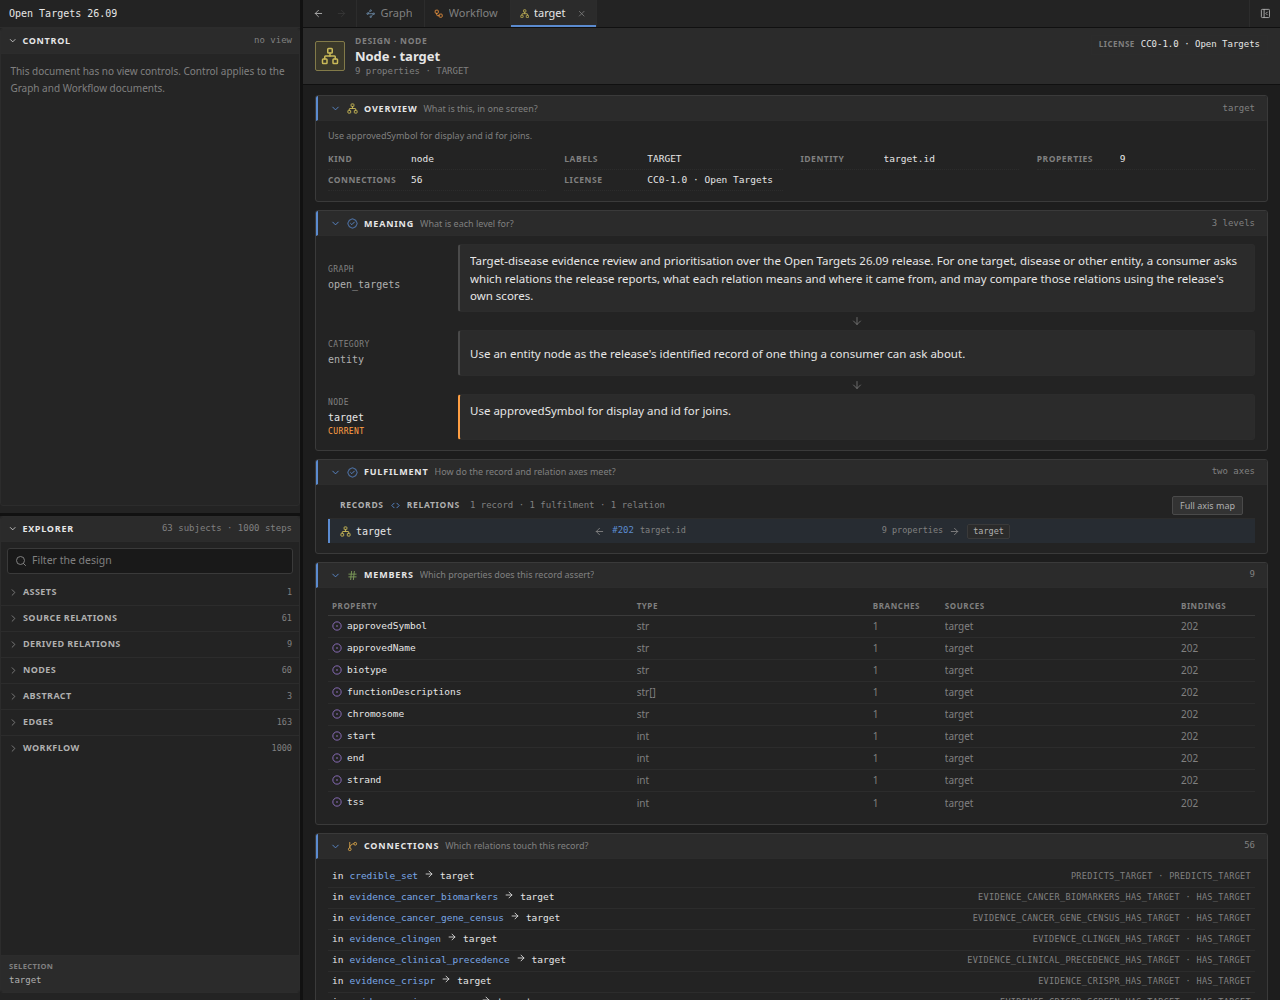
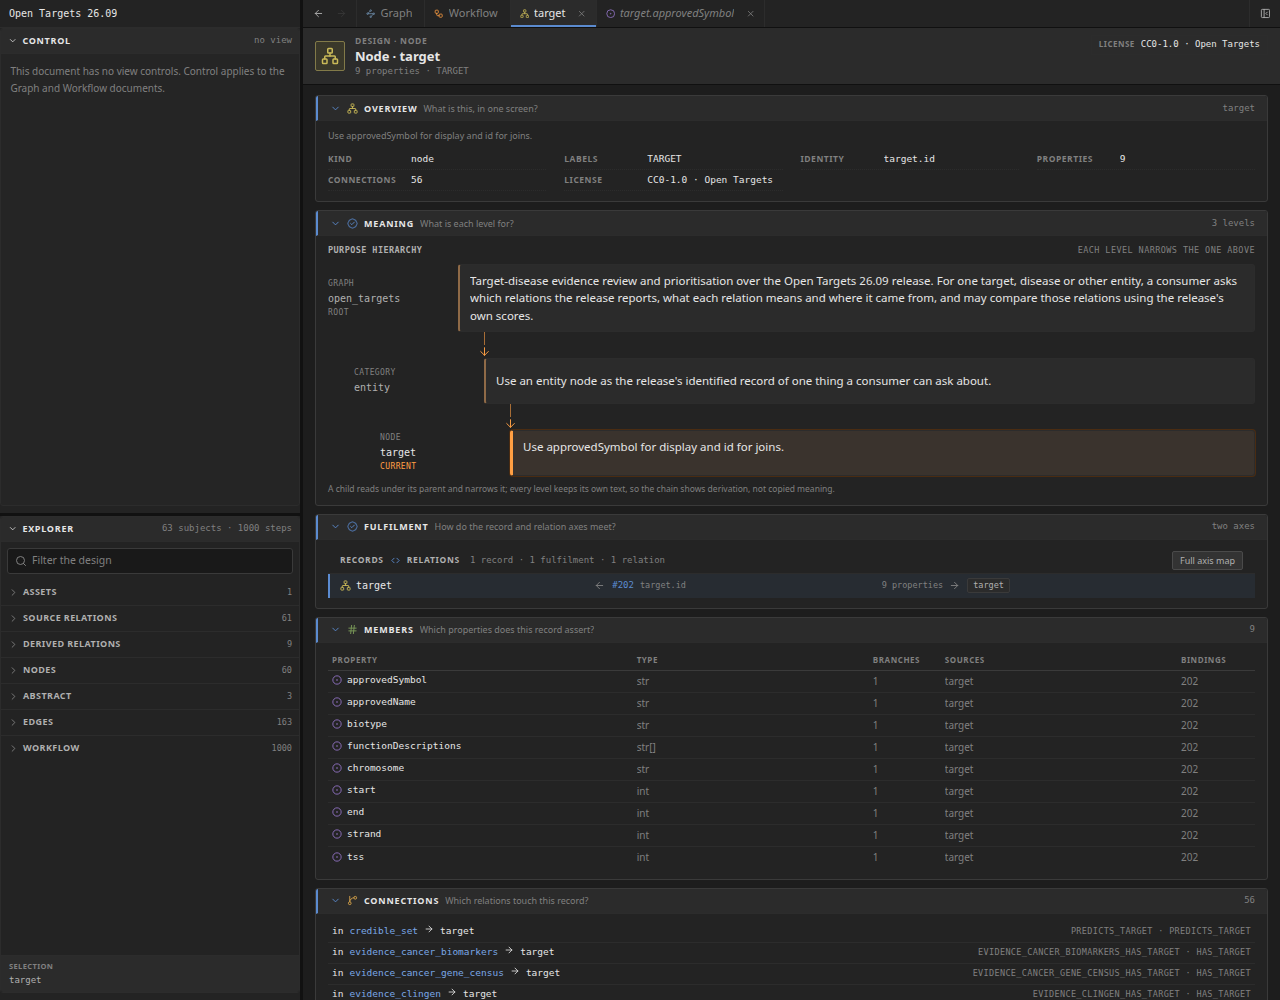
Make the purpose chain read as a descent

diff --git a/viewer/shared/design/PurposeChain.tsx b/viewer/shared/design/PurposeChain.tsx
@@ -12,12 +12,15 @@ export interface PurposeChainProps {
   emptyText?: string;
 }
 
+const INDENT = 26;
+
 /**
- * A compact chain of purposes, one confined box per level.
+ * The record-axis purpose chain, drawn as a descent.
  *
- * The record axis reads downward: graph → category → component → property.
- * Each box states only the purpose; a purpose longer than the box is clamped,
- * so the box never grows without bound and the rest of the text stays hidden.
+ * Each level steps in from the one above, and a single accent spine runs from
+ * the graph root to the current declaration. The step and the spine state that
+ * a local purpose is read under its parent and narrows it; every level keeps
+ * its own text, so this is derivation, not copied meaning.
  */
 export function PurposeChain({
   levels,
@@ -30,61 +33,85 @@ export function PurposeChain({
 
   return (
     <div className={styles.purposeChain} aria-label="Purpose hierarchy">
-      {levels.map((level, index) => {
-        const current = Boolean(level.current);
-        const interactive =
-          !current && level.kind !== "graph" && Boolean(onOpen);
-        const text = level.purpose ?? "No purpose is stated.";
-        return (
-          <div key={`${level.kind}:${level.name}`}>
-            {index > 0 ? (
-              <div className={styles.purposeConnector} aria-hidden>
-                <ArrowDown size={12} strokeWidth={1.5} />
-              </div>
-            ) : null}
+      <header className={styles.purposeHead}>
+        <span>Purpose hierarchy</span>
+        <span>each level narrows the one above</span>
+      </header>
+      <div className={styles.purposeLevels}>
+        {levels.map((level, index) => {
+          const current = Boolean(level.current);
+          const interactive =
+            !current && level.kind !== "graph" && Boolean(onOpen);
+          const text = level.purpose ?? "No purpose is stated.";
+          const depth = index * INDENT;
+          return (
             <div
-              className={styles.purposeRow}
-              data-current={current || undefined}
+              className={styles.purposeLevel}
+              key={`${level.kind}:${level.name}`}
             >
-              <div className={styles.purposeMeta}>
-                <span className={styles.purposeKind}>{level.label}</span>
-                <span className={styles.purposeName}>{level.name}</span>
-                {current ? (
-                  <span className={styles.purposeCurrent}>current</span>
-                ) : null}
-              </div>
-              {interactive ? (
-                <button
-                  type="button"
-                  className={styles.purposeBox}
-                  onClick={() => onOpen?.(level)}
-                  title={`${text} — open ${level.name}`}
+              {index > 0 ? (
+                <div
+                  className={styles.purposeConnector}
+                  style={{ marginLeft: `${depth + 130 - 7}px` }}
+                  aria-hidden
                 >
-                  <span
-                    className={cx(
-                      styles.purposeText,
-                      !level.purpose && styles.purposeMissing,
-                    )}
-                  >
-                    {text}
-                  </span>
-                </button>
-              ) : (
-                <div className={styles.purposeBox} title={text}>
-                  <span
-                    className={cx(
-                      styles.purposeText,
-                      !level.purpose && styles.purposeMissing,
-                    )}
-                  >
-                    {text}
-                  </span>
+                  <span className={styles.purposeConnectorLine} />
+                  <ArrowDown size={13} strokeWidth={1.8} />
                 </div>
-              )}
+              ) : null}
+              <div
+                className={styles.purposeRow}
+                data-current={current || undefined}
+                style={{ paddingLeft: `${depth}px` }}
+              >
+                <div className={styles.purposeMeta}>
+                  <span className={styles.purposeKind}>{level.label}</span>
+                  <span className={styles.purposeName}>{level.name}</span>
+                  {current ? (
+                    <span className={styles.purposeTag} data-current>
+                      current
+                    </span>
+                  ) : index === 0 ? (
+                    <span className={styles.purposeTag}>root</span>
+                  ) : null}
+                </div>
+                {interactive ? (
+                  <button
+                    type="button"
+                    className={styles.purposeBox}
+                    onClick={() => onOpen?.(level)}
+                    title={`${text} — open ${level.name}`}
+                  >
+                    <span
+                      className={cx(
+                        styles.purposeText,
+                        !level.purpose && styles.purposeMissing,
+                      )}
+                    >
+                      {text}
+                    </span>
+                  </button>
+                ) : (
+                  <div className={styles.purposeBox} title={text}>
+                    <span
+                      className={cx(
+                        styles.purposeText,
+                        !level.purpose && styles.purposeMissing,
+                      )}
+                    >
+                      {text}
+                    </span>
+                  </div>
+                )}
+              </div>
             </div>
-          </div>
-        );
-      })}
+          );
+        })}
+      </div>
+      <p className={styles.purposeNote}>
+        A child reads under its parent and narrows it; every level keeps its own
+        text, so the chain shows derivation, not copied meaning.
+      </p>
     </div>
   );
 }

diff --git a/viewer/shared/design/design.module.css b/viewer/shared/design/design.module.css
@@ -166,9 +166,35 @@
 /* ----------------------------------------------------------- purpose chain */
 
 .purposeChain {
+  min-width: 0;
+}
+
+.purposeHead {
+  display: flex;
+  align-items: baseline;
+  justify-content: space-between;
+  gap: 8px;
+  margin-bottom: 7px;
+  color: var(--color-faint);
+  font-family: var(--font-mono);
+  font-size: 8.5px;
+  letter-spacing: 0.05em;
+  text-transform: uppercase;
+}
+
+.purposeHead span:first-child {
+  color: var(--color-muted);
+  font-weight: 600;
+}
+
+.purposeLevels {
   display: flex;
   min-width: 0;
   flex-direction: column;
+}
+
+.purposeLevel {
+  min-width: 0;
 }
 
 .purposeRow {
@@ -204,12 +230,16 @@
   white-space: nowrap;
 }
 
-.purposeCurrent {
-  color: var(--color-selection);
+.purposeTag {
+  color: var(--color-faint);
   font-family: var(--font-mono);
   font-size: 8px;
   letter-spacing: 0.05em;
   text-transform: uppercase;
+}
+
+.purposeTag[data-current] {
+  color: var(--color-selection);
 }
 
 .purposeBox {
@@ -220,16 +250,25 @@
   min-height: 46px;
   max-height: 68px;
   border: 1px solid var(--color-line-soft);
-  border-left: 2px solid var(--color-line-strong);
+  border-left: 2px solid
+    color-mix(in srgb, var(--color-selection) 38%, var(--color-line-strong));
   border-radius: 3px;
   background: var(--color-panel-raised);
   padding: 7px 10px;
   text-align: left;
+  transition:
+    border-color 120ms ease,
+    background-color 120ms ease;
 }
 
 button.purposeBox:hover {
   border-color: var(--color-line-strong);
   border-left-color: var(--color-selection);
+  background: color-mix(
+    in srgb,
+    var(--color-selection) 4%,
+    var(--color-panel-raised)
+  );
 }
 
 button.purposeBox:focus-visible {
@@ -238,7 +277,14 @@ button.purposeBox:focus-visible {
 }
 
 .purposeRow[data-current] .purposeBox {
+  border-left-width: 3px;
   border-left-color: var(--color-selection);
+  background: color-mix(
+    in srgb,
+    var(--color-selection) 7%,
+    var(--color-panel-raised)
+  );
+  box-shadow: 0 0 0 1px var(--color-selection-soft);
 }
 
 .purposeRow[data-current] .purposeName {
@@ -263,11 +309,25 @@ button.purposeBox:focus-visible {
 
 .purposeConnector {
   display: flex;
+  width: 14px;
+  height: 26px;
+  flex-direction: column;
   align-items: center;
-  justify-content: center;
-  height: 18px;
-  margin-left: 130px;
+  color: var(--color-selection);
+}
+
+.purposeConnectorLine {
+  width: 1px;
+  flex: 1;
+  background: currentColor;
+  opacity: 0.6;
+}
+
+.purposeNote {
+  margin: 7px 0 0 0;
   color: var(--color-faint);
+  font-size: 8.5px;
+  line-height: 1.4;
 }
 
 .purposeEmpty {

diff --git a/viewer/HIERARCHY.md b/viewer/HIERARCHY.md
@@ -57,7 +57,7 @@ position.
 | **Step** | one workflow step's instruction, payload, openings, connections and blueprint bindings on the same detail surface as node and subject documents; opened from the workflow section of Explorer |
 | **Source relation** | a source relation's identity, contract, owning asset, columns, indented expression outline from the relation back through its fields to the asset, and its purpose in the shared Meaning band; the effective licence is in the banner |
 | **Derived relation** | a derived relation's identity, contract, columns, row source, indented expression outline from each column back through its operators and row source to the asset, and its purpose in the shared Meaning band; the effective licence is in the banner |
-| **Subject** (node, edge, property, asset, abstract) | provenance assets, source relations and derived relations first for node, edge and property; asset and relation references are navigable to their own documents; the effective licence is in the banner; a pannable, zoomable narrowed workflow graph and an indented expression outline of the actual field and operator chain from the current item back to its provenance assets follows, then the purpose chain, properties and, for a property, provenance lanes and type/presence |
+| **Subject** (node, edge, property, asset, abstract) | provenance assets, source relations and derived relations first for node, edge and property; asset and relation references are navigable to their own documents; the effective licence is in the banner; a pannable, zoomable narrowed workflow graph and an indented expression outline of the actual field and operator chain from the current item back to its provenance assets follows, then the indented purpose chain (root → current, each level narrowing the one above), properties and, for a property, provenance lanes and type/presence |
 
 A node or property click in the canvas only changes transient inspection.
 Single-clicking an Explorer row opens or reuses one preview tab; double-clicking

diff --git a/viewer/DETAIL_CONTENT.md b/viewer/DETAIL_CONTENT.md
@@ -16,7 +16,7 @@ includes by their immediate importance to a reader; it never renames one. A
 | Order | Section | Question it answers | Content |
 | --- | --- | --- | --- |
 | 1 | **Overview** | What is this, in one screen? | One fact grid: kind, labels, identity, owner or endpoints, counts and licence. |
-| 2 | **Meaning** | What is each level for? | One confined purpose box per level: graph → category → component → property, joined by a downward arrow. Each box shows only the purpose, clamped to three lines; a longer purpose hides its remainder. No claims or limitations appear in this band. |
+| 2 | **Meaning** | What is each level for? | One confined purpose box per level: graph → category → component → property, indented and joined by an accent spine. Each box shows only the purpose, clamped to three lines; a longer purpose hides its remainder. The current level is tinted and marked; the scheme is derivation (a level narrows the one above), not copied text. No claims or limitations appear in this band. |
 | 3 | **Fulfilment** | How do the record and relation axes meet? | The axis map: graph records, the binding, the domain relations. Compact by default; one control reveals the full three-column map. |
 | 4 | **Sources** | Where does this value come from? | Assets, source relations and derived relations, as navigable references with counts. |
 | 5 | **Build steps** | How is this built? | The narrowed workflow graph of the steps that produce the subject. |

diff --git a/viewer/DESIGN_LANGUAGE.md b/viewer/DESIGN_LANGUAGE.md
@@ -82,9 +82,11 @@ A kind includes or omits a section; it never renames one for itself.
   counts and licence.
 - **Meaning** is a compact purpose chain. On the record axis it reads the
   graph purpose downward through category and component to property: one box
-  per level, joined by an arrow, each showing only its purpose. The box is
-  constrained and clamps a long purpose; the rest stays hidden. The label is
-  always Meaning.
+  per level, stepped in by 26px and joined by an accent spine, each showing only
+  its purpose. The root is marked, the current level is tinted and accented,
+  and the box is constrained so a long purpose clamps and the rest stays hidden.
+  The scheme is derivation, not copied text: a level narrows the one above. The
+  label is always Meaning.
 - **Fulfilment** is the axis map: graph records, the binding and the domain
   relations. It is compact by default; one control reveals the full map.
 - **Sources**, **Build steps** and **Expression** are three visualisations of
